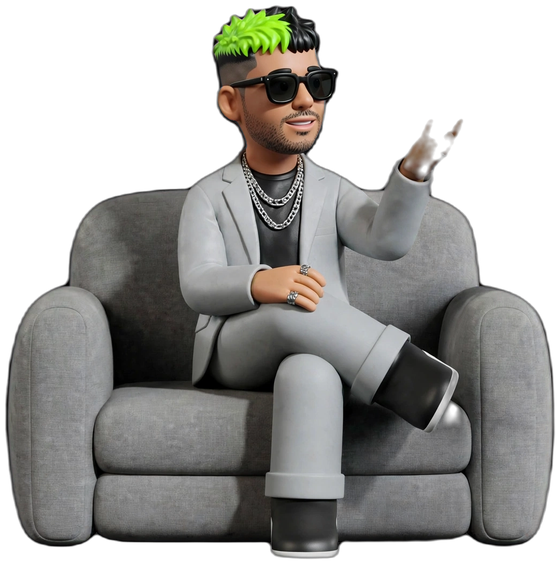
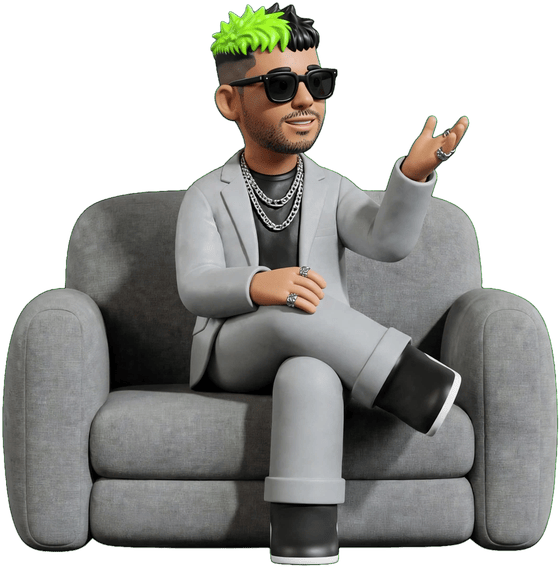
Reemplazar ilustración del preloader con versión ya sin fondo
El nuevo archivo del cliente venía sin la laptop y con transparencia
real, así que solo se aplicó decontaminación de color en los bordes
semitransparentes (en vez de recorte agresivo) para eliminar el halo
magenta sin perder detalle en los dedos de la mano.

Claude-Session: https://claude.ai/code/session_01Kssa6xPKdSRwe5xvRDQ3JH

diff --git a/index.html b/index.html
@@ -21,7 +21,7 @@
   <div class="preloader-scene">
     <picture>
       <source srcset="assets/img/couch.webp" type="image/webp">
-      <img class="preloader-couch" src="assets/img/couch.png" alt="" width="560" height="564">
+      <img class="preloader-couch" src="assets/img/couch.png" alt="" width="560" height="567">
     </picture>
     <picture>
       <source srcset="assets/img/laptop.webp" type="image/webp">
